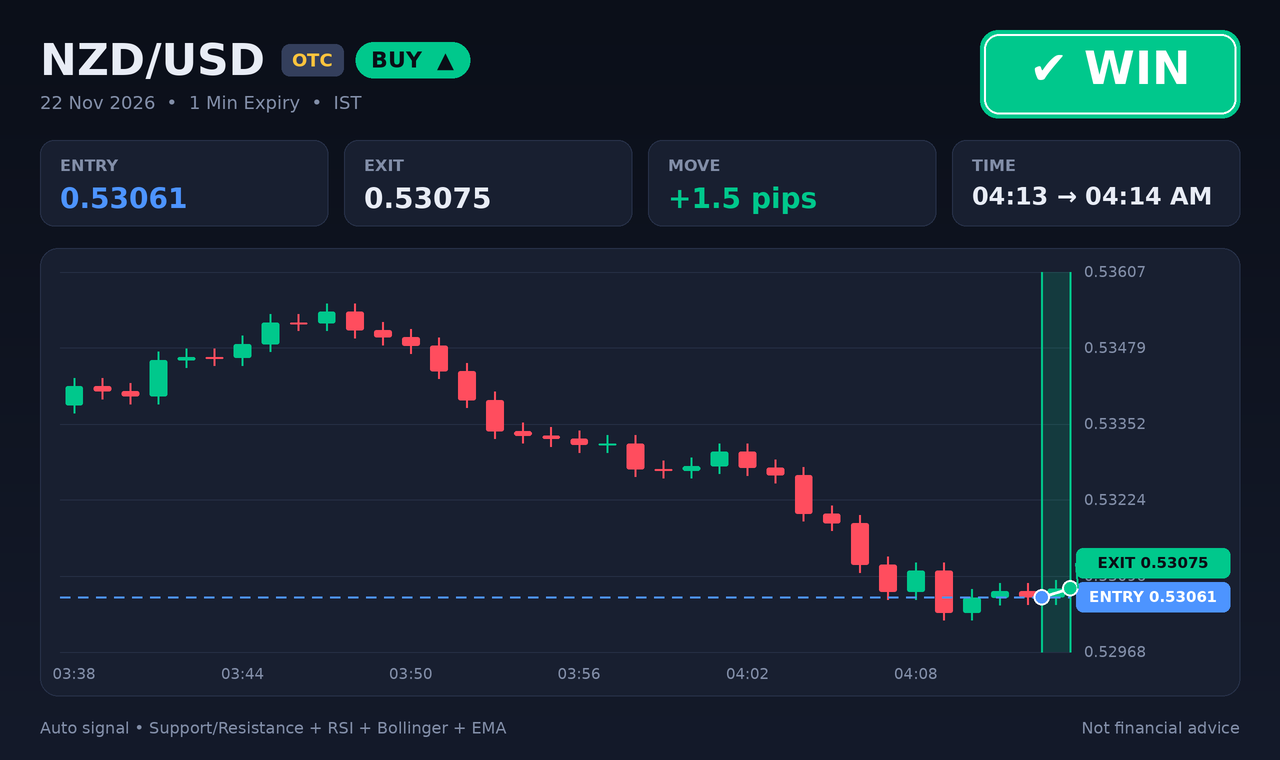
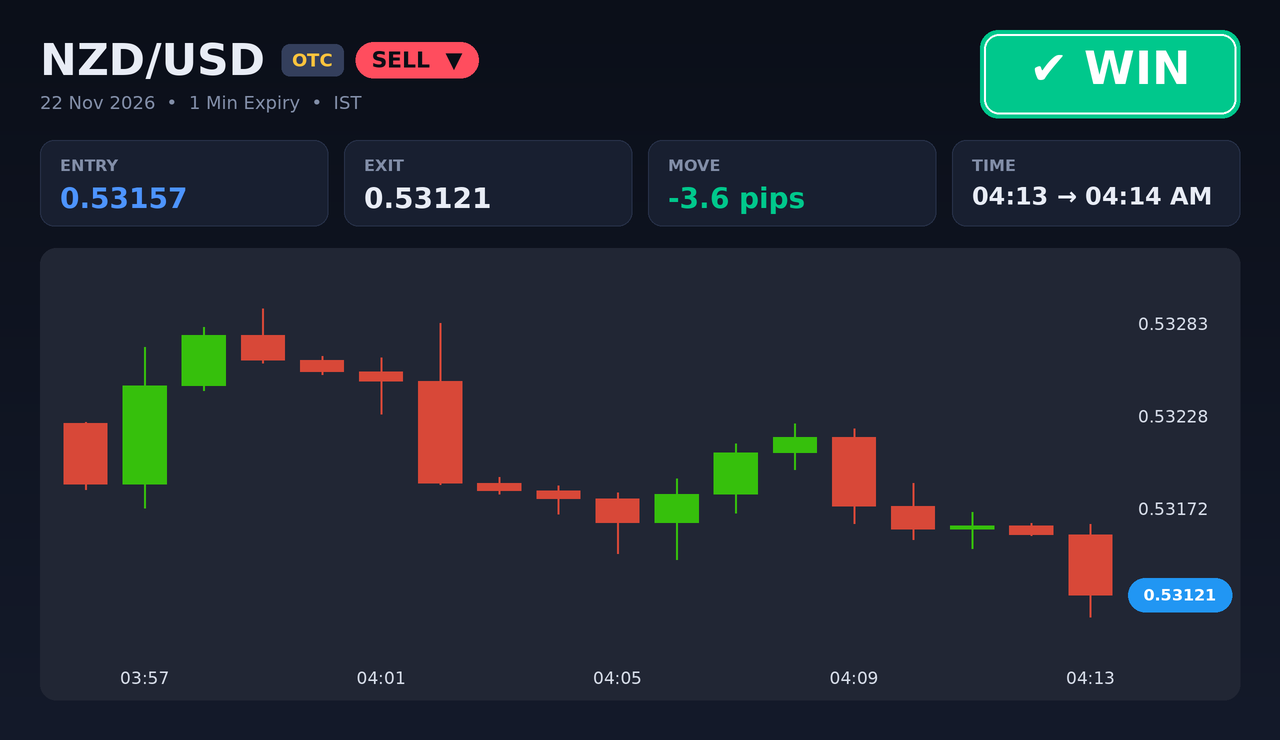
Clean broker-style candles, no overlays on the chart
Claude-Session: https://claude.ai/code/session_017ptHxXU1jqpg71v1AAAYG2

diff --git a/chart.py b/chart.py
@@ -59,7 +59,7 @@ def trade_chart(pair, direction, df, start_ms, entry, exit_price, result, expiry
     if d.empty:
         return None
 
-    W, H = 1280, 760
+    W, H = 1280, 740
     img = Image.new("RGB", (W * S, H * S), BG_TOP)
     dr = ImageDraw.Draw(img)
     s = lambda v: v * S  # noqa: E731
@@ -118,13 +118,14 @@ def trade_chart(pair, direction, df, start_ms, entry, exit_price, result, expiry
             fs -= 2
         dr.text((s(x + 20), s(cy + 42)), v, fill=col, font=_font(fs, True))
 
-    # ---------- chart panel ----------
-    px0, py0, px1, py1 = 40, 248, W - 40, H - 64
-    dr.rounded_rectangle([s(px0), s(py0), s(px1), s(py1)], radius=s(18), fill=PANEL,
-                         outline=PANEL_EDGE, width=s(1))
-    L, R, T, B = px0 + 20, px1 - 170, py0 + 24, py1 - 44
-    lo = min(d["low"].min(), entry, exit_price)
-    hi = max(d["high"].max(), entry, exit_price)
+    # ---------- chart panel: clean candles only (broker-app style), nothing drawn on top ----------
+    CUP, CDN = (54, 192, 12), (216, 72, 56)       # bright green / red like the trading app
+    CHART_BG = (33, 38, 52)
+    d = d.tail(18).reset_index(drop=True)          # fewer candles -> bigger, clearer candles
+    px0, py0, px1, py1 = 40, 248, W - 40, H - 40
+    dr.rounded_rectangle([s(px0), s(py0), s(px1), s(py1)], radius=s(16), fill=CHART_BG)
+    L, R, T, B = px0 + 16, px1 - 120, py0 + 30, py1 - 52
+    lo, hi = d["low"].min(), d["high"].max()
     pad = (hi - lo) * 0.10 or hi * 0.0005
     lo, hi = lo - pad, hi + pad
     Y = lambda p: T + (hi - p) / (hi - lo) * (B - T)  # noqa: E731
@@ -132,67 +133,29 @@ def trade_chart(pair, direction, df, start_ms, entry, exit_price, result, expiry
     step = (R - L) / n
     X = lambda i: L + step * i + step / 2  # noqa: E731
 
-    for k in range(6):
-        p = lo + (hi - lo) * k / 5
-        dr.line([(s(L), s(Y(p))), (s(R), s(Y(p)))], fill=GRID, width=s(1))
-        dr.text((s(R + 14), s(Y(p))), fmt(p), fill=MUTED, font=_font(15), anchor="lm")
+    for k in range(4):  # price scale on the right, no grid lines over the candles
+        p = lo + (hi - lo) * (k + 0.5) / 4
+        dr.text((s(R + 18), s(Y(p))), fmt(p), fill=(214, 220, 232), font=_font(17), anchor="lm")
 
-    trade_i = None
-    for i, c in d.iterrows():
-        if start_ms <= int(c["close_time"]) < end_ms:
-            trade_i = i
-    if trade_i is not None:  # trade zone
-        zx0, zx1 = X(trade_i) - step / 2, X(trade_i) + step / 2
-        zone = Image.new("RGBA", (int(s(zx1 - zx0)), int(s(B - T))), side_col + (40,))
-        img.paste(zone, (int(s(zx0)), int(s(T))), zone)
-        dr.line([(s(zx0), s(T)), (s(zx0), s(B))], fill=side_col, width=s(2))
-        dr.line([(s(zx1), s(T)), (s(zx1), s(B))], fill=side_col, width=s(2))
-
+    bwid = step * 0.74
     for i, c in d.iterrows():
         o, h, l, cl = c["open"], c["high"], c["low"], c["close"]
-        col = GREEN if cl >= o else RED
+        col = CUP if cl >= o else CDN
         dr.line([(s(X(i)), s(Y(h))), (s(X(i)), s(Y(l)))], fill=col, width=s(2))
         top, bot = Y(max(o, cl)), Y(min(o, cl))
-        bwid = max(step * 0.62, 3)
-        dr.rounded_rectangle([s(X(i) - bwid / 2), s(top), s(X(i) + bwid / 2), s(max(bot, top + 1.5))],
-                             radius=s(2), fill=col)
-        if i % 6 == 0:
+        if bot - top < 3:
+            mid = (top + bot) / 2
+            top, bot = mid - 1.5, mid + 1.5
+        dr.rectangle([s(X(i) - bwid / 2), s(top), s(X(i) + bwid / 2), s(bot)], fill=col)
+        if i % 4 == 1:
             t = datetime.fromtimestamp((int(c["close_time"]) + 1) / 1000 - 60, timezone.utc).astimezone(IST)
-            dr.text((s(X(i)), s(B + 22)), t.strftime("%H:%M"), fill=MUTED, font=_font(15), anchor="mm")
+            dr.text((s(X(i)), s(B + 30)), t.strftime("%H:%M"), fill=(214, 220, 232), font=_font(17), anchor="mm")
 
-    # entry line + tag
-    ye, yx = Y(entry), Y(exit_price)
-    xx = L
-    while xx < R:
-        dr.line([(s(xx), s(ye)), (s(min(xx + 10, R)), s(ye))], fill=BLUE, width=s(2))
-        xx += 18
-
-    def tag(yv, text, col, fg=(10, 14, 22)):
-        dr.rounded_rectangle([s(R + 6), s(yv - 15), s(px1 - 10), s(yv + 15)], radius=s(7), fill=col)
-        dr.text((s((R + 6 + px1 - 10) / 2), s(yv)), text, fill=fg, font=_font(15, True), anchor="mm")
-
-    ty_e, ty_x = ye, yx
-    if abs(ty_x - ty_e) < 34:  # keep the two tags apart
-        if ty_x >= ty_e:
-            ty_x = ty_e + 34
-        else:
-            ty_x = ty_e - 34
-    tag(ty_e, f"ENTRY {fmt(entry)}", BLUE, (255, 255, 255))
-    tag(ty_x, f"EXIT {fmt(exit_price)}", res_col, (255, 255, 255) if result != "win" else (10, 14, 22))
-
-    if trade_i is not None:
-        xe, xx_ = X(trade_i) - step / 2, X(trade_i) + step / 2
-        dr.line([(s(xe), s(ye)), (s(xx_), s(yx))], fill=(255, 255, 255), width=s(3))
-        r = 8
-        dr.ellipse([s(xe - r), s(ye - r), s(xe + r), s(ye + r)], fill=BLUE, outline=(255, 255, 255), width=s(2))
-        dr.ellipse([s(xx_ - r), s(yx - r), s(xx_ + r), s(yx + r)], fill=res_col, outline=(255, 255, 255), width=s(2))
-        # exit line from the exit dot to its tag
-        dr.line([(s(xx_ + r), s(yx)), (s(R + 6), s(ty_x))], fill=res_col, width=s(2))
-
-    # ---------- footer ----------
-    dr.text((s(40), s(H - 32)), "Auto signal • Support/Resistance + RSI + Bollinger + EMA",
-            fill=MUTED, font=_font(16), anchor="lm")
-    dr.text((s(W - 40), s(H - 32)), "Not financial advice", fill=MUTED, font=_font(16), anchor="rm")
+    last = d.iloc[-1]  # current price pill on the scale (outside the candles)
+    yl = Y(last["close"])
+    dr.rounded_rectangle([s(R + 8), s(yl - 17), s(px1 - 8), s(yl + 17)], radius=s(17), fill=(33, 150, 243))
+    dr.text((s((R + 8 + px1 - 8) / 2), s(yl)), fmt(last["close"]), fill=(255, 255, 255),
+            font=_font(16, True), anchor="mm")
 
     out = img.resize((W, H), Image.LANCZOS)
     buf = io.BytesIO()
